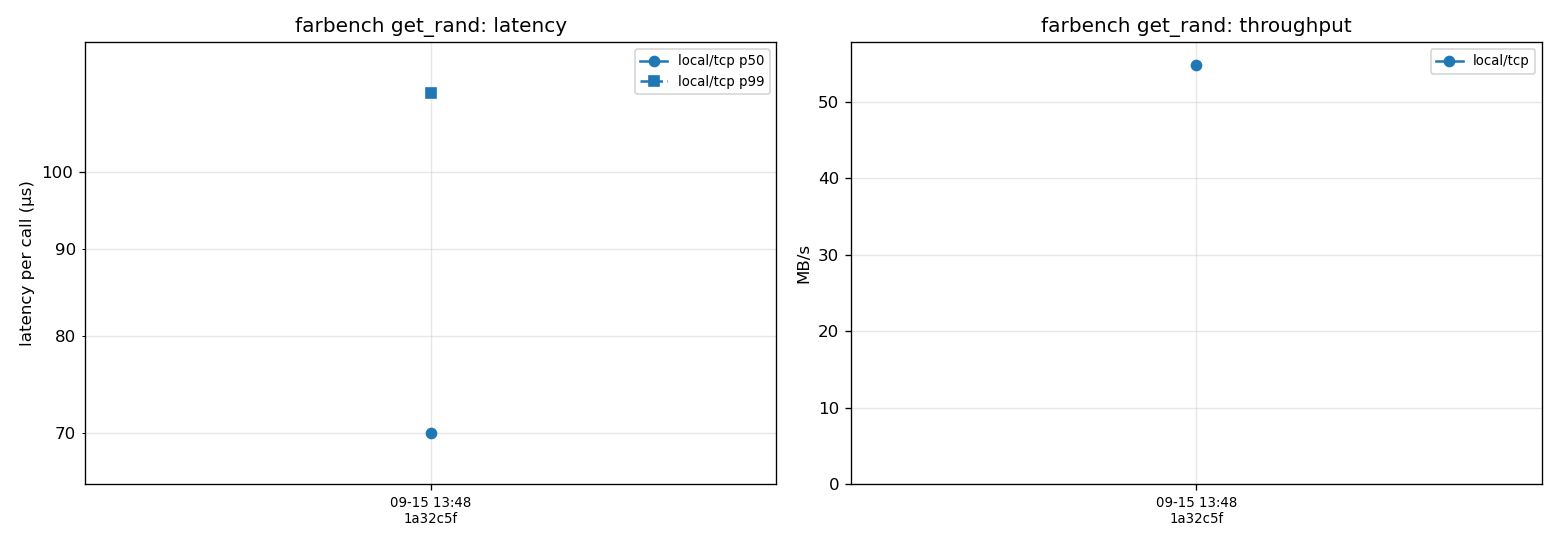
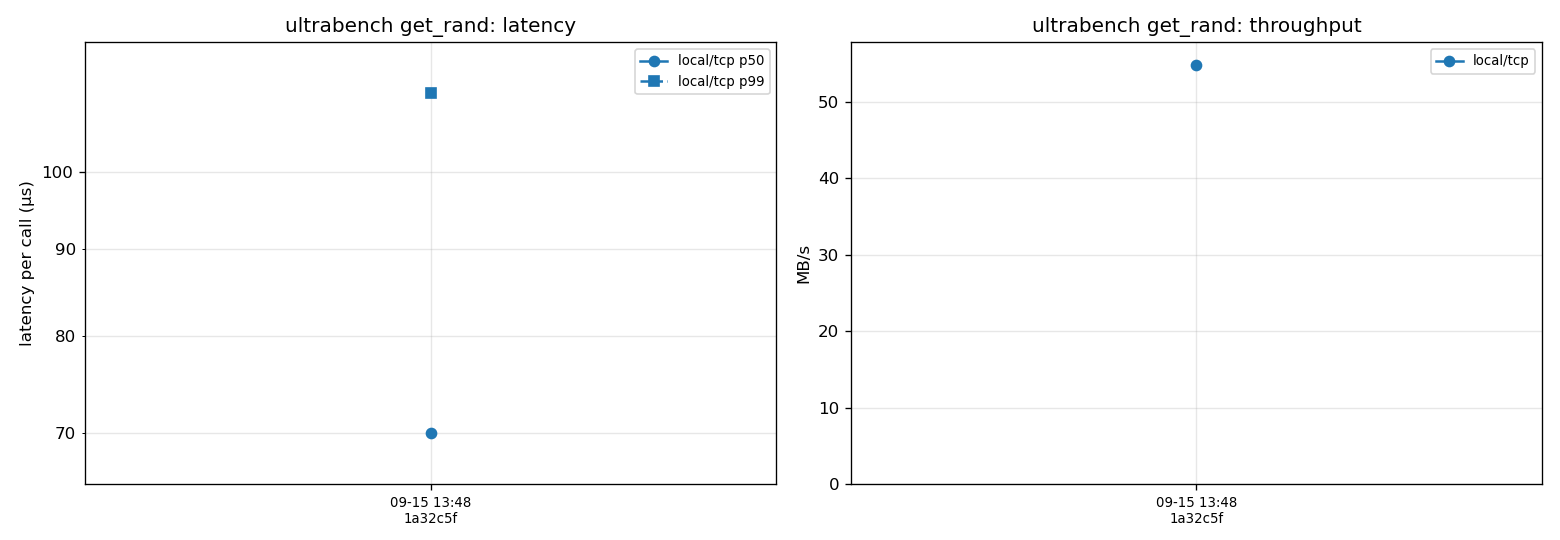
Rename far* to ultra*: ultrabench, ultramem, wire magic "umem"
- farbench -> ultrabench (cmd/ultrabench, binary, messages, Makefile)
- farmem -> ultramem (/opt/ultramem deploy path, unit, docs, comments)
- "far memory" -> "ultra memory" in CLAUDE.md
- proto.Magic 0x6d656d66 ("fmem") -> 0x6d656d75 ("umem"); golden test
  bytes and CRC updated. Wire-incompatible with older builds; nothing
  is deployed yet.
- bench/plots regenerated with the new titles; results JSON unchanged

Changed region(s): [[0.6462, 0.0296, 0.8923, 0.0593], [0.1846, 0.0296, 0.3692, 0.0593]]

diff --git a/cmd/ultrabench/main.go b/cmd/ultrabench/main.go
@@ -1,4 +1,4 @@
-// Command farbench measures a link against memsrv and writes one CLAUDE.md §6
+// Command ultrabench measures a link against memsrv and writes one CLAUDE.md §6
 // JSON per mode to -out. It refuses to run on a dirty working tree, so every
 // result maps to a commit.
 package main
@@ -24,7 +24,7 @@ import (
 
 // commit is the source commit, stamped by deploy/push.sh with
 // -ldflags "-X main.commit=<sha>" ("<sha>-dirty" for uncommitted changes).
-// Empty when built in the repository, where farbench asks git instead.
+// Empty when built in the repository, where ultrabench asks git instead.
 var commit string
 
 // dialers are the -link implementations; rawl2 and verbs join in Week 3.
@@ -40,7 +40,7 @@ var dialers = map[string]func(ctx context.Context, addr string) (link.Link, erro
 
 func main() {
 	if err := run(); err != nil {
-		fmt.Fprintln(os.Stderr, "farbench:", err)
+		fmt.Fprintln(os.Stderr, "ultrabench:", err)
 		os.Exit(1)
 	}
 }
@@ -96,7 +96,7 @@ func run() error {
 		return err
 	}
 	defer l.Close()
-	fmt.Printf("farbench %s: env %s, link %s, memsrv %s, %d calls per mode\n", sha, *envName, *linkName, addr, *pages)
+	fmt.Printf("ultrabench %s: env %s, link %s, memsrv %s, %d calls per mode\n", sha, *envName, *linkName, addr, *pages)
 
 	for _, mode := range modes {
 		ctx, cancel := context.WithTimeout(context.Background(), *timeout)

diff --git a/internal/memsrv/memsrv.go b/internal/memsrv/memsrv.go
@@ -1,5 +1,5 @@
 // Package memsrv serves 4 KB pages of a memory buffer over the proto wire
-// protocol: the host B side of farmem (CLAUDE.md §1). cmd/memsrv wraps it.
+// protocol: the host B side of ultramem (CLAUDE.md §1). cmd/memsrv wraps it.
 package memsrv
 
 import (
@@ -32,7 +32,7 @@ type Config struct {
 // Server owns the page buffer and the connections that read and write it.
 //
 // Access to a page is not synchronized across connections: two connections
-// writing the same page at once can leave it torn. farmem runs one pager per
+// writing the same page at once can leave it torn. ultramem runs one pager per
 // memsrv, so this is by design.
 type Server struct {
 	mem   []byte

diff --git a/internal/proto/proto.go b/internal/proto/proto.go
@@ -1,4 +1,4 @@
-// Package proto defines the farmem wire protocol: a fixed 32-byte,
+// Package proto defines the ultramem wire protocol: a fixed 32-byte,
 // little-endian header, optionally followed by a page payload.
 package proto
 
@@ -12,8 +12,8 @@ import (
 // HeaderSize is the encoded size of a Header on the wire.
 const HeaderSize = 32
 
-// Magic identifies a farmem frame. Little-endian on the wire it reads "fmem".
-const Magic uint32 = 0x6d656d66
+// Magic identifies an ultramem frame. Little-endian on the wire it reads "umem".
+const Magic uint32 = 0x6d656d75
 
 // PageShift4K is the page shift for 4 KB pages, the only size used today.
 const PageShift4K = 12

diff --git a/internal/proto/proto_test.go b/internal/proto/proto_test.go
@@ -51,12 +51,12 @@ func TestGolden(t *testing.T) {
 	h := Header{Magic: Magic, Op: OpGetR, Flags: FlagErr, PageShift: PageShift4K,
 		Seq: 0x0102030405060708, Page: 0x1112131415161718, Len: 4096}
 	want := []byte{
-		'f', 'm', 'e', 'm', // magic
+		'u', 'm', 'e', 'm', // magic
 		0x04, 0x01, 0x0c, 0x00, // op, flags, pageshift, rsvd
 		0x08, 0x07, 0x06, 0x05, 0x04, 0x03, 0x02, 0x01, // seq
 		0x18, 0x17, 0x16, 0x15, 0x14, 0x13, 0x12, 0x11, // page
 		0x00, 0x10, 0x00, 0x00, // len
-		0xb1, 0xc3, 0x09, 0x4a, // crc32c
+		0x36, 0xc1, 0x38, 0xac, // crc32c
 	}
 	if got := encode(h); !bytes.Equal(got, want) {
 		t.Fatalf("got  % x\nwant % x", got, want)

diff --git a/bench/plot.py b/bench/plot.py
@@ -65,13 +65,13 @@ def plot_mode(mode, runs):
         fmt.set_scientific(False)
         axis(fmt)
     lat.set_ylabel("latency per call (µs)")
-    lat.set_title(f"farbench {mode}: latency")
+    lat.set_title(f"ultrabench {mode}: latency")
     lat.legend(fontsize=8)
     lat.grid(True, which="both", alpha=0.3)
     if thr is not None:
         thr.set_ylabel("MB/s")
         thr.set_ylim(bottom=0)
-        thr.set_title(f"farbench {mode}: throughput")
+        thr.set_title(f"ultrabench {mode}: throughput")
         thr.legend(fontsize=8)
         thr.grid(True, alpha=0.3)
     for ax in axes[0]:

diff --git a/cmd/memsrv/main.go b/cmd/memsrv/main.go
@@ -1,5 +1,5 @@
 // Command memsrv lends this host's RAM: it locks a buffer and serves 4 KB
-// pages from it over the farmem protocol (host B, CLAUDE.md §1).
+// pages from it over the ultramem protocol (host B, CLAUDE.md §1).
 //
 // Flags override the -env file, which overrides the built-in defaults.
 package main

diff --git a/internal/bench/result.go b/internal/bench/result.go
@@ -8,7 +8,7 @@ import (
 	"time"
 )
 
-// Result is one farbench run: exactly the CLAUDE.md §6 fields, no more.
+// Result is one ultrabench run: exactly the CLAUDE.md §6 fields, no more.
 type Result struct {
 	Date         string  `json:"date"` // RFC 3339, UTC
 	Env          string  `json:"env"`

diff --git a/cmd/cli0/main.go b/cmd/cli0/main.go
@@ -1,6 +1,6 @@
 // Command cli0 is the Day 2 ad-hoc client: it Puts N pages to a memsrv,
 // Gets them back, verifies them and prints wall time (CLAUDE.md Day 2,
-// "Verify on local"). farbench (Day 3) replaces it.
+// "Verify on local"). ultrabench (Day 3) replaces it.
 package main
 
 import (

diff --git a/internal/bench/stats.go b/internal/bench/stats.go
@@ -1,6 +1,6 @@
 // Package bench measures a link.Link and writes results in the CLAUDE.md §6
 // format: one JSON per run, with fields fixed so runs stay comparable across
-// versions. cmd/farbench wraps it.
+// versions. cmd/ultrabench wraps it.
 package bench
 
 import (

diff --git a/CLAUDE.md b/CLAUDE.md
@@ -1,4 +1,4 @@
-# farmem — far memory over Thunderbolt, in Go
+# ultramem — ultra memory over Thunderbolt, in Go
 
 This file is the project brief and the working agreement for Claude Code.
 Read it fully before doing anything. Keep it updated when decisions change.
@@ -17,7 +17,7 @@ Three deliverables grow in parallel from day 1:
 | Track | Artifact | Purpose |
 |---|---|---|
 | Code | `memsrv`, `pager`, `internal/link` | the system |
-| Bench | `farbench` + `bench/results/` | every version is measured the same way |
+| Bench | `ultrabench` + `bench/results/` | every version is measured the same way |
 | Ops | `deploy/` + `env/` | one command to push and run on any environment |
 
 Non-goals for these 3 weeks: macOS, multi-node, security, production hardening,
@@ -28,7 +28,7 @@ any inference integration. Linux ↔ Linux only.
 - Thunderbolt host-to-host exposes one transport: **XDomain DMA rings**.
   Linux's `thunderbolt-net` builds an Ethernet netdev (`thunderbolt0`) on it,
   MTU up to 65522, 4096-byte frames on the wire.
-- No load/store across hosts. Far memory is **page-granular**, fault-driven.
+- No load/store across hosts. Ultra memory is **page-granular**, fault-driven.
 - Expected cost per 4 KB miss over TB4: ~12 µs (link RTT ~8–10 µs + fault
   overhead). Bandwidth ~2.5–3 GB/s. That is Optane-SSD-class swap. Design for it.
 - Prior art we build on, not against: Infiniswap (design), Firecracker UFFD
@@ -46,7 +46,7 @@ host A                                          host B
                               ▲
                               │ same binary, same protocol
                          ┌────┴─────┐
-                         │ farbench │
+                         │ ultrabench │
                          └──────────┘
 ```
 
@@ -77,10 +77,10 @@ are a flag flip later, not a rewrite.
 ## 4. Repository layout
 
 ```
-farmem/
+ultramem/
   cmd/memsrv/        host B: pinned buffer + serve loop
   cmd/pager/         host A: uffd handler + policy
-  cmd/farbench/      benchmark client (RTT, get/put throughput, guest workload)
+  cmd/ultrabench/      benchmark client (RTT, get/put throughput, guest workload)
   cmd/touch/         static in-guest workload: touch N MB seq/random, print latency pcts
   internal/link/     Link interface + tcp/, rawl2/, verbs/
   internal/proto/    header encode/decode + tests
@@ -121,7 +121,7 @@ kernel ≥ 6.6, `thunderbolt-net` loaded, `ip link set thunderbolt0 mtu 65520`,
 
 ## 6. Benchmark contract
 
-`farbench` writes one JSON per run to `bench/results/`. Fields are fixed from
+`ultrabench` writes one JSON per run to `bench/results/`. Fields are fixed from
 day 3 onward so results stay comparable across all versions:
 
 ```json
@@ -184,8 +184,8 @@ pre-check on both hosts still pending.
 **2026-09-15 — Day 3 done, on branch `day3`.**
 Shipped: `internal/bench` (nearest-rank percentiles, §6 `Result` writer, git
 commit and dirty checks, `rtt`/`get_seq`/`get_rand`/`put_seq` runners) with
-tests; `cmd/farbench`; `bench/plot.py` → `bench/plots/<mode>.png`;
-`make docker-bench` (farbench in `fa` vs memsrv in `fb` via `env/local/run.sh`)
+tests; `cmd/ultrabench`; `bench/plot.py` → `bench/plots/<mode>.png`;
+`make docker-bench` (ultrabench in `fa` vs memsrv in `fb` via `env/local/run.sh`)
 and `make docker-plot`. First results at 1a32c5f, local/tcp: p50 ~69–71 µs,
 p99 ~111–129 µs, ~55 MB/s for every mode (VM veth baseline). Filename, plots
 location and unit choices in decisions.
@@ -273,11 +273,11 @@ Close
 
 - [x] Commit, CI green, update Status
 
-#### Day 3 — farbench v1
+#### Day 3 — ultrabench v1
 
 Goal: one command produces a comparable JSON result.
 
-`cmd/farbench`
+`cmd/ultrabench`
 
 - [x] Flags: `-env`, `-link`, `-mode` (comma list or `all`), `-pages`, `-out bench/results/`
 - [x] Modes `rtt`, `get_seq`, `get_rand`, `put_seq`
@@ -309,7 +309,7 @@ Goal: same command runs on `local`, `lan`, `tb`.
 
 `deploy/`
 
-- [ ] `push.sh <host> <role>`: `CGO_ENABLED=0` build, rsync to `/opt/farmem`, install unit, restart
+- [ ] `push.sh <host> <role>`: `CGO_ENABLED=0` build, rsync to `/opt/ultramem`, install unit, restart
 - [ ] `memsrv.service` (Restart=always, `LimitMEMLOCK=infinity`)
 - [ ] `env/lan/`, `env/tb/` configs (addresses, interface, MTU, size)
 
@@ -321,7 +321,7 @@ Hosts (show commands before running)
 
 Verify
 
-- [ ] farbench all modes on `lan` and `tb`; commit results
+- [ ] ultrabench all modes on `lan` and `tb`; commit results
 - [ ] Numbers into `docs/decisions.md`: RTT and MB/s per env
 
 Close
@@ -410,7 +410,7 @@ Close
 
 Goal: pager numbers on all three envs.
 
-`cmd/farbench`
+`cmd/ultrabench`
 
 - [ ] Modes `guest_seq`, `guest_rand`: launch pager+touch, collect touch JSON, merge with pager counters
 - [ ] Flags `-region`, `-resident` pass through
@@ -465,7 +465,7 @@ Decide (in `docs/decisions.md`, with a recommendation)
 
 Measure
 
-- [ ] Copy `cmd/touch` into the rootfs; run `guest_seq`/`guest_rand` inside the VM via farbench
+- [ ] Copy `cmd/touch` into the rootfs; run `guest_seq`/`guest_rand` inside the VM via ultrabench
 - [ ] Commit results
 
 Close
@@ -493,7 +493,7 @@ Tests
 
 Verify on `tb`
 
-- [ ] farbench `rtt`, `get_*`, `put_seq` with `-link rawl2`; commit next to tcp
+- [ ] ultrabench `rtt`, `get_*`, `put_seq` with `-link rawl2`; commit next to tcp
 
 Close
 
@@ -520,7 +520,7 @@ Close
 
 #### Day 13 — XDomain exploration (read-only day)
 
-Goal: know what the raw path offers on our hardware. No farmem code changes.
+Goal: know what the raw path offers on our hardware. No ultramem code changes.
 
 Read (write `docs/xdomain.md`)
 
@@ -548,7 +548,7 @@ If Day 13 produced a working device
 - [ ] `internal/link/verbs`: cgo over libibverbs behind `//go:build verbs`
 - [ ] RC queue pair; `Get` = one-sided READ, `Put` = WRITE + immediate for ack
 - [ ] memsrv registers its buffer as an MR; exchange rkey over the tcp link at startup
-- [ ] farbench `rtt`, `get_*` on `tb`; commit
+- [ ] ultrabench `rtt`, `get_*` on `tb`; commit
 
 If it did not
 

diff --git a/docs/decisions.md b/docs/decisions.md
@@ -19,7 +19,7 @@ Docker Desktop's LinuxKit kernel (6.10.14, arm64) is built with
 `# CONFIG_USERFAULTFD is not set`: the syscall returns ENOSYS even in a
 `--privileged` container, and there is no `/dev/kvm`.
 Week 1 (netns, tcp link,
-farbench) runs fine there; the pager (Day 6+) and Firecracker (Day 9) cannot.
+ultrabench) runs fine there; the pager (Day 6+) and Firecracker (Day 9) cannot.
 Options:
 
 - a Lima VM with a stock Debian/Ubuntu kernel running its own Docker
@@ -47,15 +47,15 @@ synchronous calls, 10k pages each way, every page verified, 3 runs.
 
 This is a sanity number for veth inside a VM, not a transport measurement: on
 the Mac's own loopback `BenchmarkPut`/`BenchmarkGet` measure ~13 µs and ~24 µs
-per call. No decision follows; farbench (Day 3) takes over measuring.
+per call. No decision follows; ultrabench (Day 3) takes over measuring.
 
-## 2026-09-15 — farbench v1: what a result means
+## 2026-09-15 — ultrabench v1: what a result means
 
 The §6 fields stay as specified; these choices fill the gaps around them.
 
 - **File names:** §4's `YYYY-MM-DD-<env>-<link>-<git>.json` collides between
   the modes, and Day 12's repeats, of one commit. Names are now
-  `YYYY-MM-DD-<env>-<link>-<git>-<mode>-<HHMMSS>.json`, and farbench never
+  `YYYY-MM-DD-<env>-<link>-<git>-<mode>-<HHMMSS>.json`, and ultrabench never
   overwrites a file.
 - **Plots:** `.gitignore` excludes `bench/*.png`, yet Day 3 says "commit
   results + PNG". Plots go to `bench/plots/<mode>.png`, which is committed. The
@@ -70,7 +70,7 @@ The §6 fields stay as specified; these choices fill the gaps around them.
   The get modes Put every page untimed first, so reads return written data.
   `get_rand` visits each page once in a fixed-seed order, so every run and
   version reads the same sequence. `-mode` takes a comma list or `all`.
-- **Dirty check:** untracked files count, `bench/results/` does not. farbench
+- **Dirty check:** untracked files count, `bench/results/` does not. ultrabench
   checks before measuring, so a dirty tree fails in milliseconds, not minutes.
 
 First run, `make docker-bench` at 1a32c5f (local, tcp, 131072 calls per mode;

diff --git a/env/hosts.md b/env/hosts.md
@@ -3,7 +3,7 @@
 Hardware facts for the machines behind the envs; env READMEs point here.
 Record what was measured and when, not what the spec sheet promises.
 
-## screwdriver: Linux, host A (farbench now, pager later)
+## screwdriver: Linux, host A (ultrabench now, pager later)
 
 Checked 2026-09-16. ssh alias `screwdriver`.
 
